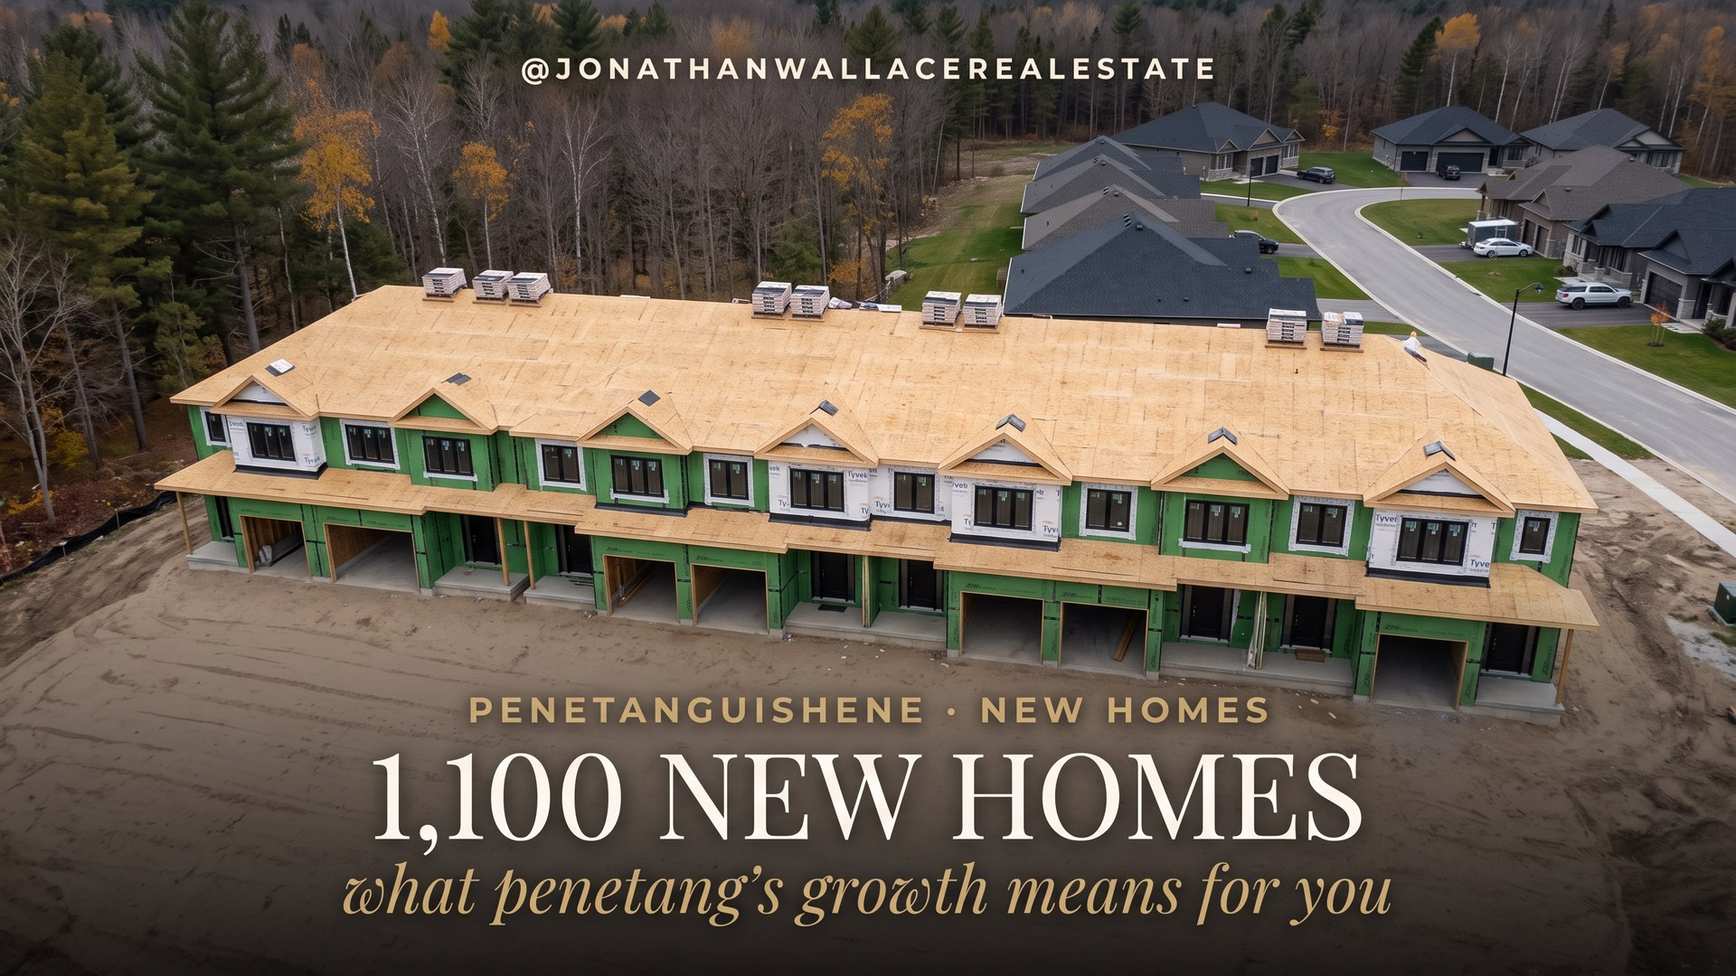
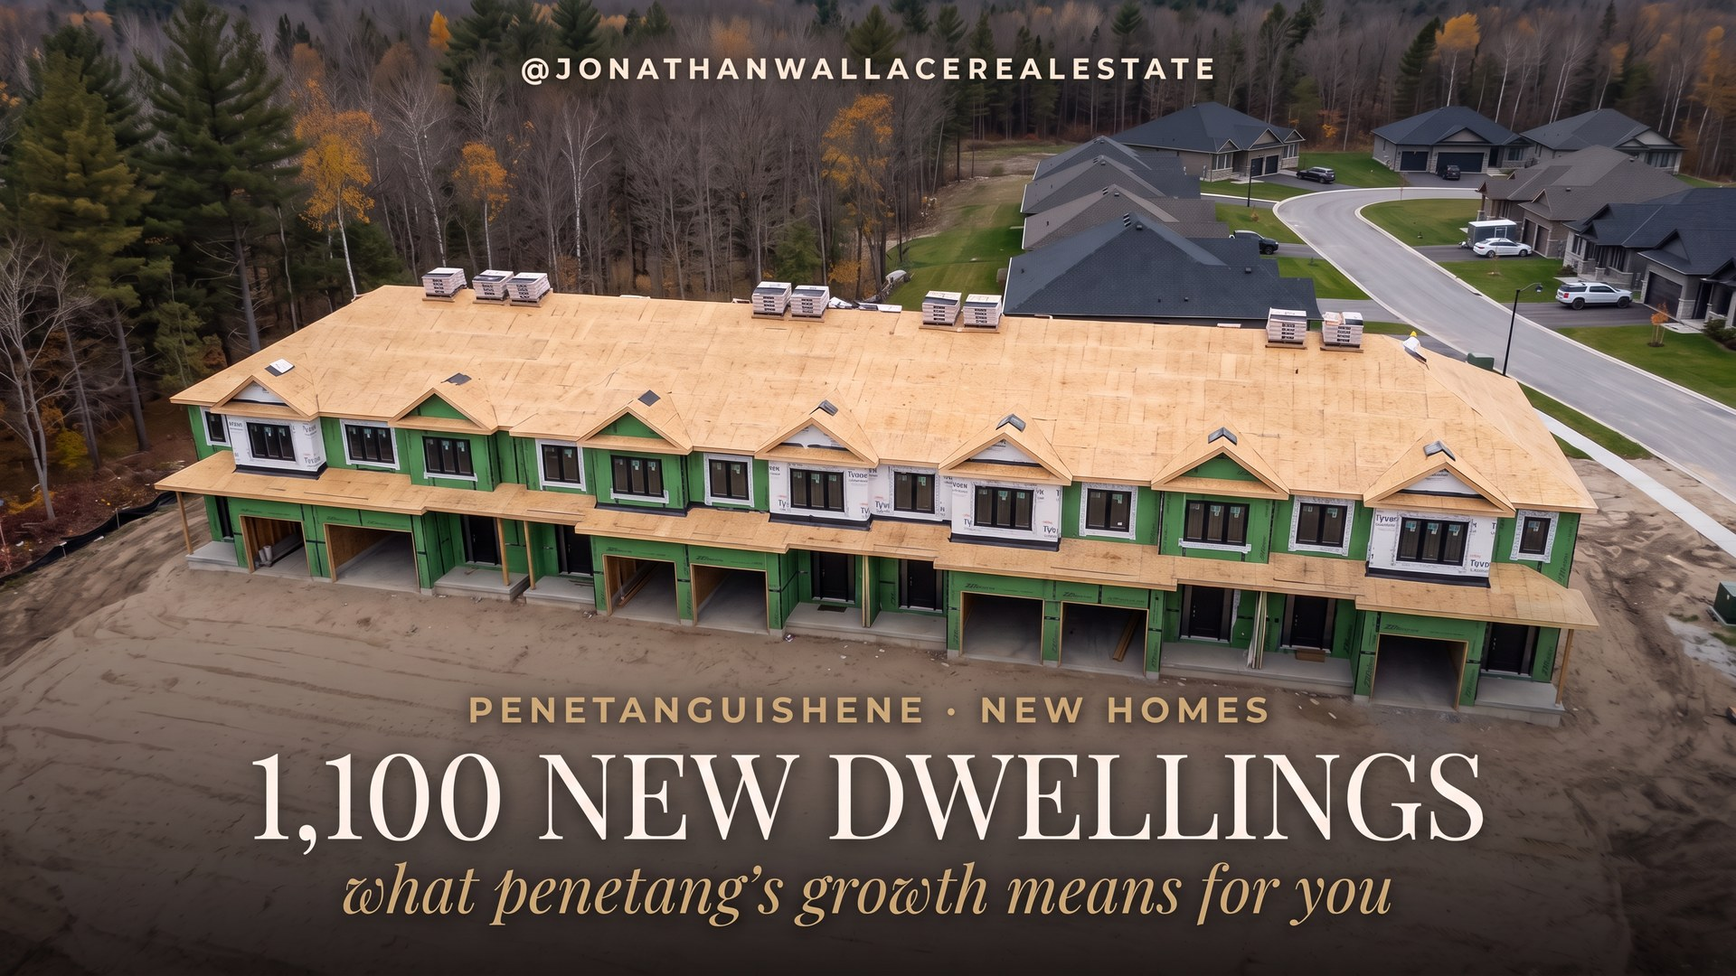
Penetang post: say dwellings, not homes, for the 1,100 count
Claude-Session: https://claude.ai/code/session_015L1X8Kx5xHtQMr7aadToGo

diff --git a/blog-penetanguishene-1100-new-homes.html b/blog-penetanguishene-1100-new-homes.html
@@ -16,17 +16,17 @@ j=d.createElement(s),dl=l!='dataLayer'?'&l='+l:'';j.async=true;j.crossOrigin='an
 <!-- End Google Tag Manager -->
 <meta name="robots" content="index, follow, max-snippet:-1, max-image-preview:large, max-video-preview:-1">
 
-<title>Penetanguishene's 1,100 New Homes: What It Means for You | Jonathan Wallace</title>
-<meta name="description" content="Penetanguishene is tracking projects that could add more than 1,100 homes. Jonathan Wallace explains what the growth means for Penetang homeowners, buyers, renters and the town.">
+<title>Penetanguishene's 1,100 New Dwellings: What It Means for You | Jonathan Wallace</title>
+<meta name="description" content="Penetanguishene is tracking projects that could add more than 1,100 dwellings. Jonathan Wallace explains what the growth means for Penetang homeowners, buyers, renters and the town.">
 <link rel="canonical" href="https://jonathanwallace.ca/blog-penetanguishene-1100-new-homes">
 
 <meta property="og:type" content="article">
-<meta property="og:title" content="Penetanguishene has 1,100+ new homes in the pipeline. What it means for you">
-<meta property="og:description" content="Penetanguishene is tracking projects that could add more than 1,100 homes. Jonathan Wallace explains what the growth means for Penetang homeowners, buyers, renters and the town.">
+<meta property="og:title" content="Penetanguishene has 1,100+ new dwellings in the pipeline. What it means for you">
+<meta property="og:description" content="Penetanguishene is tracking projects that could add more than 1,100 dwellings. Jonathan Wallace explains what the growth means for Penetang homeowners, buyers, renters and the town.">
 <meta property="og:image" content="https://jonathanwallace.ca/assets/img/blog-penetanguishene-1100-new-homes-card.jpg">
 <meta property="og:image:width" content="1920">
 <meta property="og:image:height" content="1080">
-<meta property="og:image:alt" content="Townhomes under construction in Penetanguishene: 1,100 new homes and what Penetang&#x27;s growth means for you">
+<meta property="og:image:alt" content="Townhomes under construction in Penetanguishene: 1,100 new dwellings and what Penetang&#x27;s growth means for you">
 <meta property="article:published_time" content="2026-11-20">
 <meta property="article:modified_time" content="2026-11-20">
 <meta property="article:author" content="Jonathan Wallace">
@@ -59,7 +59,7 @@ j=d.createElement(s),dl=l!='dataLayer'?'&l='+l:'';j.async=true;j.crossOrigin='an
       "name": "How many new homes are planned in Penetanguishene?",
       "acceptedAnswer": {
         "@type": "Answer",
-        "text": "Penetanguishene is tracking projects that could add more than 1,100 homes as of November 2026: about 815 units in applications still under review, 210 with draft approval and 162 on lots that are ready to build. They range from detached homes and townhomes to apartments."
+        "text": "Penetanguishene is tracking projects that could add more than 1,100 dwellings as of November 2026: about 815 units in applications still under review, 210 with draft approval and 162 on lots that are ready to build. They range from detached homes and townhomes to apartments."
       }
     },
     {
@@ -75,7 +75,7 @@ j=d.createElement(s),dl=l!='dataLayer'?'&l='+l:'';j.async=true;j.crossOrigin='an
       "name": "What are the biggest housing developments in Penetanguishene?",
       "acceptedAnswer": {
         "@type": "Answer",
-        "text": "The largest is 138 Robert Street East, with 564 homes (283 detached and 281 townhouses), about five to ten years from construction. St. Andrew's Village by Matti Homes at 1145 Fuller Avenue plans 173 homes and could start soon. Apartment proposals include about 400 units at 200 Main Street and 35 Thompson Road West, 156 at 18 Wright Court and 88 at 2 Hope Street."
+        "text": "The largest is 138 Robert Street East, with 564 homes (283 detached and 281 townhouses), about five to ten years from construction. St. Andrew's Village by Matti Homes at 1145 Fuller Avenue plans 173 dwellings and could start soon. Apartment proposals include about 400 units at 200 Main Street and 35 Thompson Road West, 156 at 18 Wright Court and 88 at 2 Hope Street."
       }
     },
     {
@@ -165,8 +165,8 @@ j=d.createElement(s),dl=l!='dataLayer'?'&l='+l:'';j.async=true;j.crossOrigin='an
 {
   "@context": "https://schema.org",
   "@type": "Article",
-  "headline": "Penetanguishene Has More Than 1,100 New Homes in the Pipeline. Here's What It Means for You",
-  "description": "Penetanguishene is tracking projects that could add more than 1,100 homes. Jonathan Wallace explains what the growth means for Penetang homeowners, buyers, renters and the town.",
+  "headline": "Penetanguishene Has More Than 1,100 New Dwellings in the Pipeline. Here's What It Means for You",
+  "description": "Penetanguishene is tracking projects that could add more than 1,100 dwellings. Jonathan Wallace explains what the growth means for Penetang homeowners, buyers, renters and the town.",
   "author": {
     "@id": "https://jonathanwallace.ca/#jonathan"
   },
@@ -227,7 +227,7 @@ j=d.createElement(s),dl=l!='dataLayer'?'&l='+l:'';j.async=true;j.crossOrigin='an
     {
       "@type": "ListItem",
       "position": 3,
-      "name": "Penetanguishene Has More Than 1,100 New Homes in the Pipeline. Here's What It Means for You",
+      "name": "Penetanguishene Has More Than 1,100 New Dwellings in the Pipeline. Here's What It Means for You",
       "item": "https://jonathanwallace.ca/blog-penetanguishene-1100-new-homes"
     }
   ]
@@ -272,7 +272,7 @@ height="0" width="0" style="display:none;visibility:hidden"></iframe></noscript>
 <header class="pagehead">
   <div class="wrap">
     <p class="kicker">Penetanguishene &middot; New Homes &middot; Georgian Bay, Ontario</p>
-    <h1>Penetanguishene Has More Than 1,100 New Homes in the Pipeline. Here's What It Means for You</h1>
+    <h1>Penetanguishene Has More Than 1,100 New Dwellings in the Pipeline. Here's What It Means for You</h1>
     <p class="byline">By Jonathan Wallace, REALTOR®, Faris Team Real Estate Brokerage &middot; November 20, 2026 &middot; ~7 min read</p>
 <div class="nl-top"><span class="nl-top__q">Thinking of selling?</span> <a class="nl-top__btn" href="https://calendly.com/jonathan-faristeam/jonathan-wallace-in-home-evaluation-full-cma" data-cta="post-top-evaluation" data-ga4="book_home_evaluation">Book a home evaluation</a></div>
   </div>
@@ -282,12 +282,12 @@ height="0" width="0" style="display:none;visibility:hidden"></iframe></noscript>
 <div class="wrap">
 
   <div class="answer">
-    <p><strong>The short answer:</strong> Penetanguishene is planning for its biggest wave of new housing in years, with projects that could add more than 1,100 homes. I think it is good news for the town and for Main Street. If you own an older home, expect more competition as new homes arrive. If you are buying, you will get choices Penetang has rarely had. And none of it happens overnight: most builders are waiting for the numbers to work.</p>
+    <p><strong>The short answer:</strong> Penetanguishene is planning for its biggest wave of new housing in years, with projects that could add more than 1,100 dwellings. I think it is good news for the town and for Main Street. If you own an older home, expect more competition as new homes arrive. If you are buying, you will get choices Penetang has rarely had. And none of it happens overnight: most builders are waiting for the numbers to work.</p>
   </div>
   <div class="takeaways">
     <span class="label">Key takeaways</span>
     <ul class="plain">
-      <li>Penetanguishene is tracking projects that could add more than 1,100 homes: about 815 units under review, 210 with draft approval and 162 on ready-to-build lots.</li>
+      <li>Penetanguishene is tracking projects that could add more than 1,100 dwellings: about 815 units under review, 210 with draft approval and 162 on ready-to-build lots.</li>
       <li>The mix includes detached homes, townhomes, link homes and a wave of apartment proposals.</li>
       <li>Owners of homes built between the 1960s and mid-1990s, especially in the east end, should expect more competition as new homes arrive.</li>
       <li>Many projects are waiting because building costs are higher than what a new home sells for today.</li>
@@ -295,13 +295,13 @@ height="0" width="0" style="display:none;visibility:hidden"></iframe></noscript>
     </ul>
   </div>
   <h2>What Is in Penetanguishene's Housing Pipeline</h2>
-  <p><a href="https://www.midlandtoday.ca/local-news/penetanguishene-poised-for-major-housing-growth-with-more-than-1100-units-in-pipeline-13003800" target="_blank" rel="noopener">MidlandToday reported on November 12</a> that the town is tracking projects that could add more than 1,100 homes. Here is how it breaks down, step by step.</p>
+  <p><a href="https://www.midlandtoday.ca/local-news/penetanguishene-poised-for-major-housing-growth-with-more-than-1100-units-in-pipeline-13003800" target="_blank" rel="noopener">MidlandToday reported on November 12</a> that the town is tracking projects that could add more than 1,100 dwellings. Here is how it breaks down, step by step.</p>
   <ol class="steps" style="display:block;grid-template-columns:none">
     <li>Under review: applications that could add about 815 homes.</li>
     <li>Draft approved: another 210 homes, with development agreements still to be signed.</li>
     <li>Ready to build: lots for about 162 more homes.</li>
   </ol>
-  <p>The biggest single project is 138 Robert Street East, near the future home of Burkevale Protestant Separate School: 564 homes, made up of 283 detached homes and 281 townhouses. The town's planning director puts it five to ten years from construction. Closer in, St. Andrew's Village by Matti Homes at 1145 Fuller Avenue plans 173 homes, mostly detached, with rental townhouses and apartments, and could start any time now.</p>
+  <p>The biggest single project is 138 Robert Street East, near the future home of Burkevale Protestant Separate School: 564 homes, made up of 283 detached homes and 281 townhouses. The town's planning director puts it five to ten years from construction. Closer in, St. Andrew's Village by Matti Homes at 1145 Fuller Avenue plans 173 dwellings, mostly detached, with rental townhouses and apartments, and could start any time now.</p>
   <p>Then there are the apartments: about 400 proposed at 200 Main Street and 35 Thompson Road West, 156 at 18 Wright Court and 88 at 2 Hope Street. The planning director told MidlandToday she has never, in 20 years, seen this many developers want to build apartments. A property on Brunelle Sideroad has also been pledged for a 100-unit County of Simcoe housing project with affordable units, at least five or six years away.</p>
   <h2>Every Site the Town Lists as Approved</h2>
   <p>The Town of Penetanguishene keeps a public <a href="https://penetanguishene.ca/business-and-development/planning-and-development/active-developments/" target="_blank" rel="noopener">Active Developments list</a> of its major subdivision, condominium and rezoning files. As of November 20, 2026, three sites are marked approved but not yet under construction:</p>
@@ -311,7 +311,7 @@ height="0" width="0" style="display:none;visibility:hidden"></iframe></noscript>
     <li>2 Hope Street (Champlain Shores): rezoning and site plan approval for two five-storey apartment buildings with 88 units.</li>
   </ol>
   <p>St. Andrew's Village at 1145 Fuller Avenue received draft plan approval in August 2020 and is now listed as under construction, along with 200 Fox Street (Champlain Shores), Harbour Pointe Phase 4 on Revol Road, 61 Thompsons Road, 77 Fox Street (Sunshine Village) and Lahey Crescent. Still in review: 138 Robert Street East, 1255 Fuller Avenue and 221 Fox Street (Queens Court, 88 condominium townhouses). For an update on a specific file, the town asks residents to contact its planning staff.</p>
-  <figure class="inbody"><img src="/assets/img/blog-penetanguishene-1100-new-homes-card.jpg" alt="Townhomes under construction in Penetanguishene: 1,100 new homes and what Penetang&#x27;s growth means for you" width="1920" height="1080" loading="lazy" decoding="async"></figure>
+  <figure class="inbody"><img src="/assets/img/blog-penetanguishene-1100-new-homes-card.jpg" alt="Townhomes under construction in Penetanguishene: 1,100 new dwellings and what Penetang&#x27;s growth means for you" width="1920" height="1080" loading="lazy" decoding="async"></figure>
   <h2>Why I Think This Is Good News for Penetang</h2>
   <p>My gut reaction was simple: Penetang needed this. Downtown Main Street has been quiet. It is a waterfront community, but from a visitor's point of view there is not a tonne of tourism, and foot traffic drops off once summer ends. More people living here year-round is what helps those businesses make it through January, not just July.</p>
   <p>Growth also pays for things. A bigger tax base helps the town build out infrastructure and fund the waterfront plans it has talked about for years. The town has backed that up by cutting development charges by 60 percent for three years to attract builders. And it puts Penetang on the map for new builds again. The population grew 12.4 percent between 2016 and 2021, to 10,077, after years of slow growth, and a 2023 town analysis projected it could pass 13,000 by 2032.</p>
@@ -335,7 +335,7 @@ height="0" width="0" style="display:none;visibility:hidden"></iframe></noscript>
   <p>Approved does not mean built. Builders are carrying large pieces of land, paying interest on them, and most bought with the expectation of building sooner than this. The 138 Robert Street East project will not see real progress until the economics come back.</p>
   <p>Even St. Andrew's Village, where the infrastructure is in, has been held back by the same problem: builders cannot always build a house for what they could sell it for. As an example, if a house costs $680,000 to build and can only sell for $650,000, nobody moves forward. The economy will decide when most of this pipeline actually rolls out.</p>
   <h2>The Real Test: Schools, Recreation and Infrastructure</h2>
-  <p>The biggest piece is resources. If 1,100 homes come to market over the next ten years, those families will need a place to swim, a place to play and schools for their kids. They will put pressure on water, sewer and town services.</p>
+  <p>The biggest piece is resources. If 1,100 dwellings come to market over the next ten years, those families will need a place to swim, a place to play and schools for their kids. They will put pressure on water, sewer and town services.</p>
   <p>Getting that right takes Town Hall staff and Council working together, so the town does not put the cart before the horse and has a plan for how these families live day to day, so they and their children can flourish here.</p>
   <p>The good news is that the work has started. The province has put $11.3 million toward bringing the Robert Street West wells back into service as a second drinking water source, with completion targeted for 2029. The town is planning wastewater upgrades and setting money aside in reserves. A new arena and a new school are on the slate, which lines up well with the added density.</p>
   <h2>The Bottom Line</h2>
@@ -343,9 +343,9 @@ height="0" width="0" style="display:none;visibility:hidden"></iframe></noscript>
   <p>If you own in Penetang and want to know where your home sits before the new inventory arrives, I am happy to walk you through your street.</p>
   <h2>Questions People Ask</h2>
   <div class="faq">
-    <details><summary>How many new homes are planned in Penetanguishene?</summary><p>Penetanguishene is tracking projects that could add more than 1,100 homes as of November 2026: about 815 units in applications still under review, 210 with draft approval and 162 on lots that are ready to build. They range from detached homes and townhomes to apartments.</p></details>
+    <details><summary>How many new homes are planned in Penetanguishene?</summary><p>Penetanguishene is tracking projects that could add more than 1,100 dwellings as of November 2026: about 815 units in applications still under review, 210 with draft approval and 162 on lots that are ready to build. They range from detached homes and townhomes to apartments.</p></details>
     <details><summary>Which housing developments are approved in Penetanguishene?</summary><p>As of November 20, 2026, the Town of Penetanguishene lists three major files as approved and not yet under construction: 123 Robert Street East (plan of subdivision, draft plan conditions approved July 12, 2023), Murray Road (Maxson Subdivision, plan of subdivision) and 2 Hope Street in Champlain Shores (site plan approval for two apartment buildings with 88 units). St. Andrew's Village at 1145 Fuller Avenue was draft approved in 2020 and is now under construction.</p></details>
-    <details><summary>What are the biggest housing developments in Penetanguishene?</summary><p>The largest is 138 Robert Street East, with 564 homes (283 detached and 281 townhouses), about five to ten years from construction. St. Andrew's Village by Matti Homes at 1145 Fuller Avenue plans 173 homes and could start soon. Apartment proposals include about 400 units at 200 Main Street and 35 Thompson Road West, 156 at 18 Wright Court and 88 at 2 Hope Street.</p></details>
+    <details><summary>What are the biggest housing developments in Penetanguishene?</summary><p>The largest is 138 Robert Street East, with 564 homes (283 detached and 281 townhouses), about five to ten years from construction. St. Andrew's Village by Matti Homes at 1145 Fuller Avenue plans 173 dwellings and could start soon. Apartment proposals include about 400 units at 200 Main Street and 35 Thompson Road West, 156 at 18 Wright Court and 88 at 2 Hope Street.</p></details>
     <details><summary>Will new construction lower home prices in Penetanguishene?</summary><p>It can put some downward pressure on resale prices, especially for homes built between the 1960s and mid-1990s in the east end, because builders are using incentives and the gap between new and resale prices has narrowed. The effect depends on how fast projects actually start, and many are waiting for the economics to work.</p></details>
     <details><summary>When will construction start on the new Penetanguishene developments?</summary><p>It varies. St. Andrew's Village could start any time, while 138 Robert Street East is five to ten years out. Many builders are waiting because construction costs are higher than what a new home would sell for today, so the economy will set the pace.</p></details>
     <details><summary>Is Penetanguishene a good place to buy a home?</summary><p>For many buyers, yes. Resale homes offer real opportunities in a buyer's market, and new link townhomes and apartments will add options Penetang has rarely had, including for downsizers and buyers leaving busier cities like Barrie for a more affordable waterfront community.</p></details>

diff --git a/blog.html b/blog.html
@@ -94,7 +94,7 @@ j=d.createElement(s),dl=l!='dataLayer'?'&l='+l:'';j.async=true;j.crossOrigin='an
         "@type": "ListItem",
         "position": 2,
         "url": "https://jonathanwallace.ca/blog-penetanguishene-1100-new-homes",
-        "name": "Penetanguishene Has More Than 1,100 New Homes in the Pipeline. Here's What It Means for You"
+        "name": "Penetanguishene Has More Than 1,100 New Dwellings in the Pipeline. Here's What It Means for You"
       },
       {
         "@type": "ListItem",
@@ -614,8 +614,8 @@ height="0" width="0" style="display:none;visibility:hidden"></iframe></noscript>
      </a>
   <!-- /LATEST MARKET UPDATE -->
     <a class='listing' href='/blog-penetanguishene-1100-new-homes' style='text-decoration:none;color:inherit;'>
-      <div class="listing__img"><img src="assets/img/blog-penetanguishene-1100-new-homes-card.jpg" alt="Townhomes under construction in Penetanguishene: 1,100 new homes and what Penetang's growth means for you" width="640" height="360" loading="lazy" decoding="async"></div>
-      <div class="listing__body"><div class="eyebrow" style="margin-bottom:6px;">New homes &middot; Penetanguishene</div><h3 style="font-size:1.05rem;line-height:1.35;margin:0 0 8px;">Penetanguishene Has More Than 1,100 New Homes in the Pipeline. Here's What It Means for You</h3><p style="font-size:.9rem;margin:0;color:var(--muted);">More than 1,100 homes are in the pipeline. What Penetang's growth means for owners of older homes, buyers, renters and the town.</p></div>
+      <div class="listing__img"><img src="assets/img/blog-penetanguishene-1100-new-homes-card.jpg" alt="Townhomes under construction in Penetanguishene: 1,100 new dwellings and what Penetang's growth means for you" width="640" height="360" loading="lazy" decoding="async"></div>
+      <div class="listing__body"><div class="eyebrow" style="margin-bottom:6px;">New homes &middot; Penetanguishene</div><h3 style="font-size:1.05rem;line-height:1.35;margin:0 0 8px;">Penetanguishene Has More Than 1,100 New Dwellings in the Pipeline. Here's What It Means for You</h3><p style="font-size:.9rem;margin:0;color:var(--muted);">More than 1,100 dwellings are in the pipeline. What Penetang's growth means for owners of older homes, buyers, renters and the town.</p></div>
     </a>
     <a class='listing' href='/blog-conditions-warranties-ontario-offer' style='text-decoration:none;color:inherit;'>
       <div class="listing__img"><img src="assets/img/blog-offer-conditions-warranties-card.jpg" alt="Conditions and warranties: what every clause in your offer actually does" width="640" height="360" loading="lazy" decoding="async"></div>

diff --git a/CHANGELOG.md b/CHANGELOG.md
@@ -3,11 +3,12 @@
 What changed on the site, when, and why. Newest first. Times are America/Toronto.
 Any assistant (Claude, Cursor agents, Grok Bot teammates) should read this before editing the site, and add an entry after every change.
 
-## 2026-11-20: New post, Penetanguishene's 1,100 new homes
+## 2026-11-20: New post, Penetanguishene's 1,100 new dwellings
 Why: Jonathan Wallace asked for the full version of this week's newsletter Penetang section as a blog post, built from his answers to ten questions on the MidlandToday pipeline story (Nov 12, 2026) and his 128 Burke Street video.
 - New post /blog-penetanguishene-1100-new-homes in the current non-market format (economy post template): answer-first summary, key takeaways, steps, FAQPage, Article (speakable, citation to MidlandToday) and Breadcrumb schema.
 - Card assets/img/blog-penetanguishene-1100-new-homes-card.jpg (Artlist render of townhomes under construction, styled after a construction photo Jonathan supplied, not identical, no watermark). Sits lower in the body, not as a header (DEC-20261012-01). No shadow or gradient.
 - Added the sites the town's Active Developments page lists as approved (123 Robert Street East, Murray Road Maxson Subdivision, 2 Hope Street), plus under-construction and in-review files, and a matching FAQ, at Jonathan Wallace's request.
+- Wording is "dwellings", not "homes", for the 1,100 count (Jonathan Wallace): the town's figure is dwelling units and many are apartments. Card headline re-rendered to 1,100 NEW DWELLINGS. URL slug kept.
 - $680,000 build vs $650,000 sale is labelled as an example. The arena on the slate is from Jonathan Wallace.
 - blog.html card first after the latest market update, ItemList rebuilt with the post at position 2; sitemap.xml, llms.txt and the .html redirect in netlify.toml added.
 
